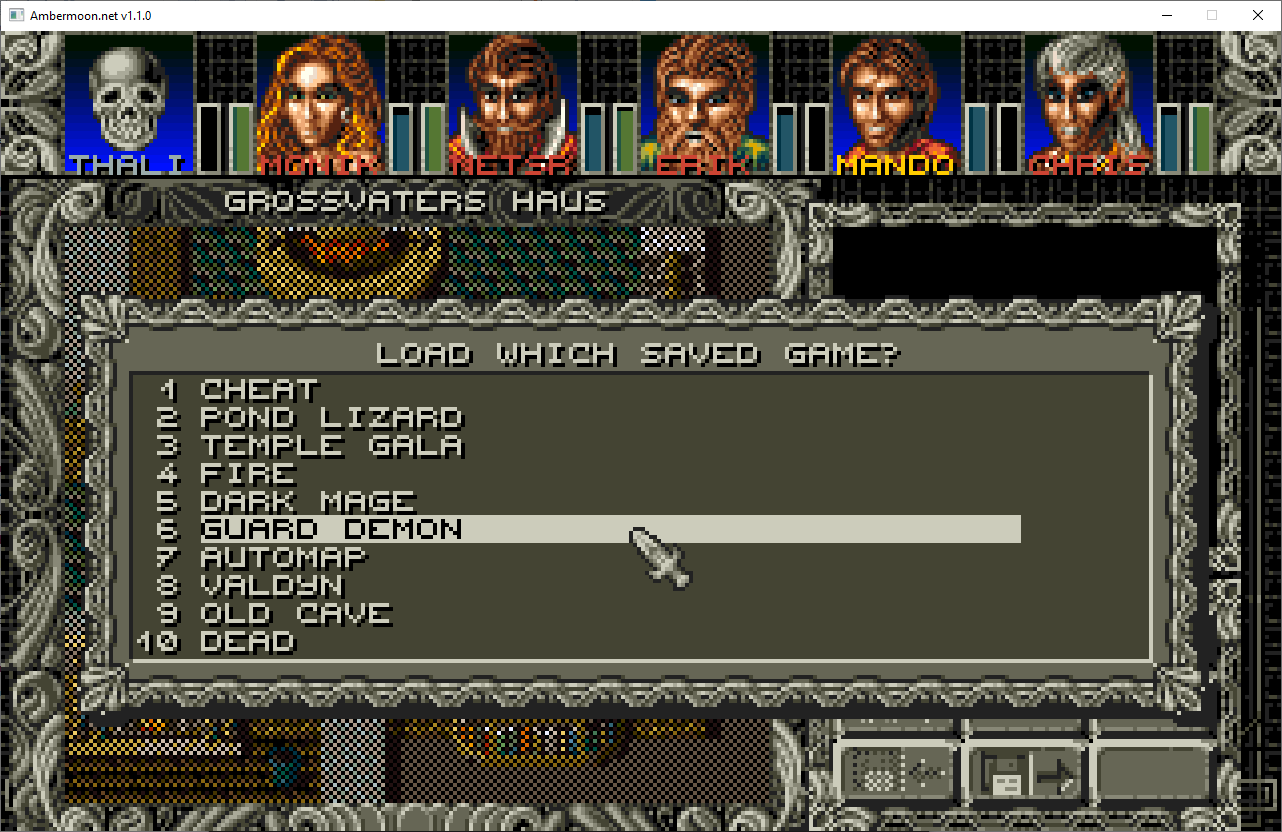
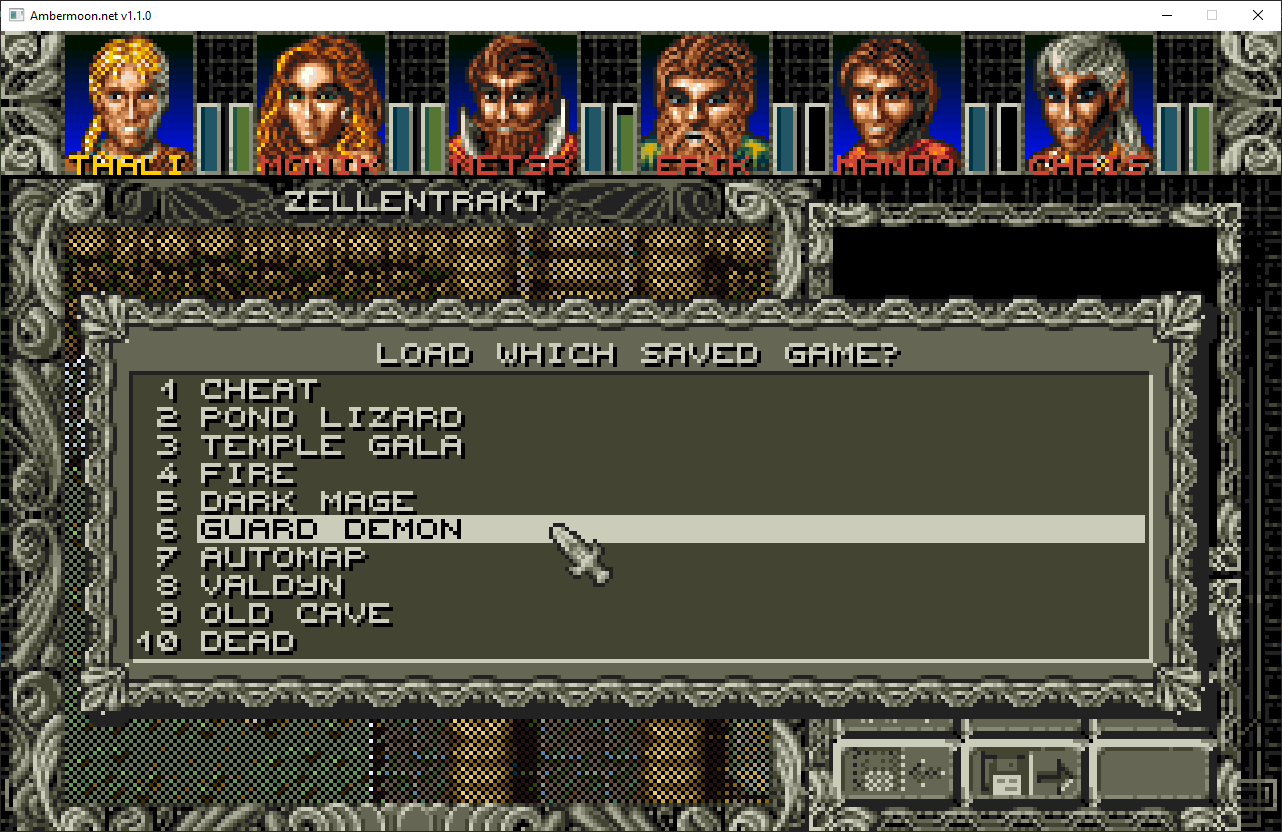
Adjusted load window hover box

diff --git a/Ambermoon.Core/UI/ListBox.cs b/Ambermoon.Core/UI/ListBox.cs
@@ -17,7 +17,7 @@ namespace Ambermoon.UI
             this.items = items;
 
             popup.AddSunkenBox(new Rect(32, 85, 256, 73));
-            hoverBox = popup.FillArea(new Rect(50, 86, 205, 7), game.GetTextColor(TextColor.Gray), 3);
+            hoverBox = popup.FillArea(new Rect(49, 86, 237, 7), game.GetTextColor(TextColor.Gray), 3);
             hoverBox.Visible = false;
 
             for (int i = 0; i < Util.Min(10, items.Count); ++i)
